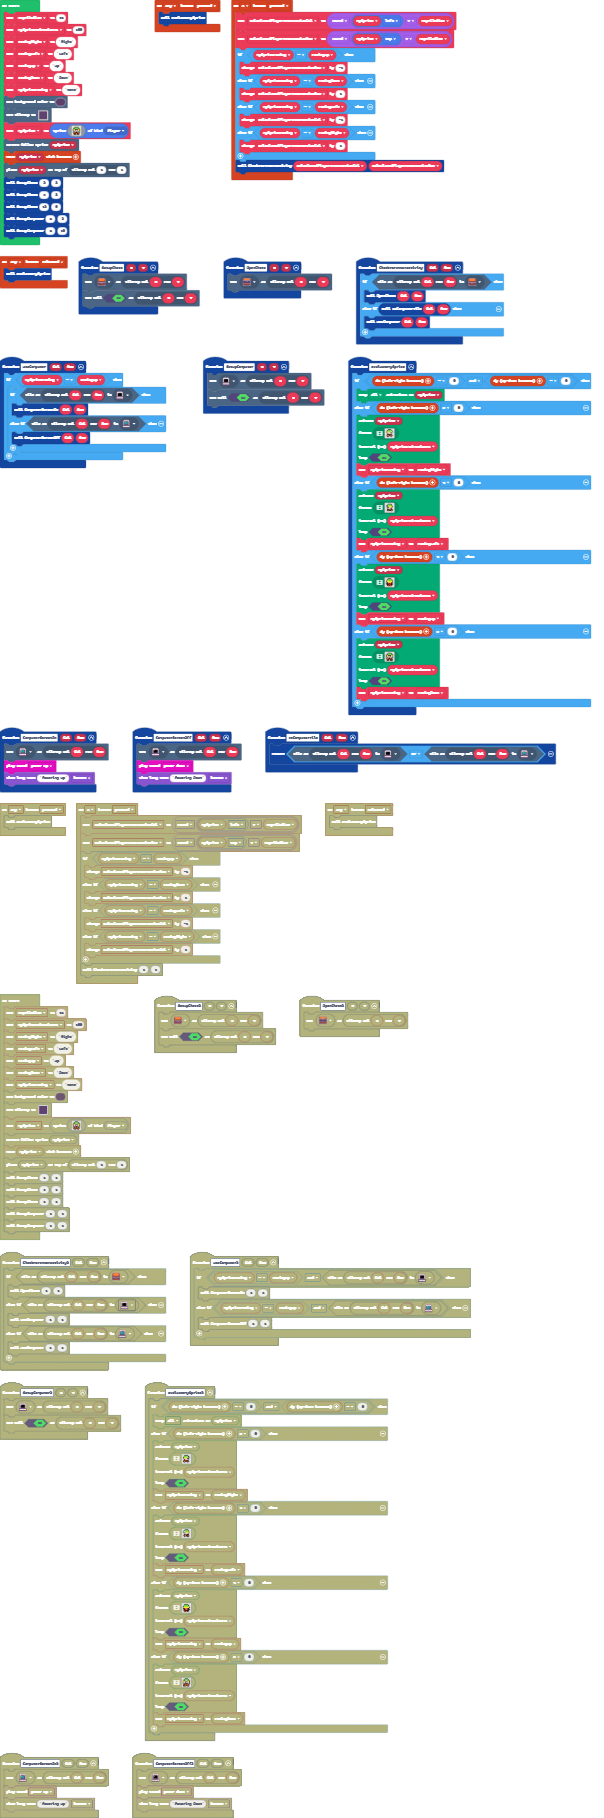
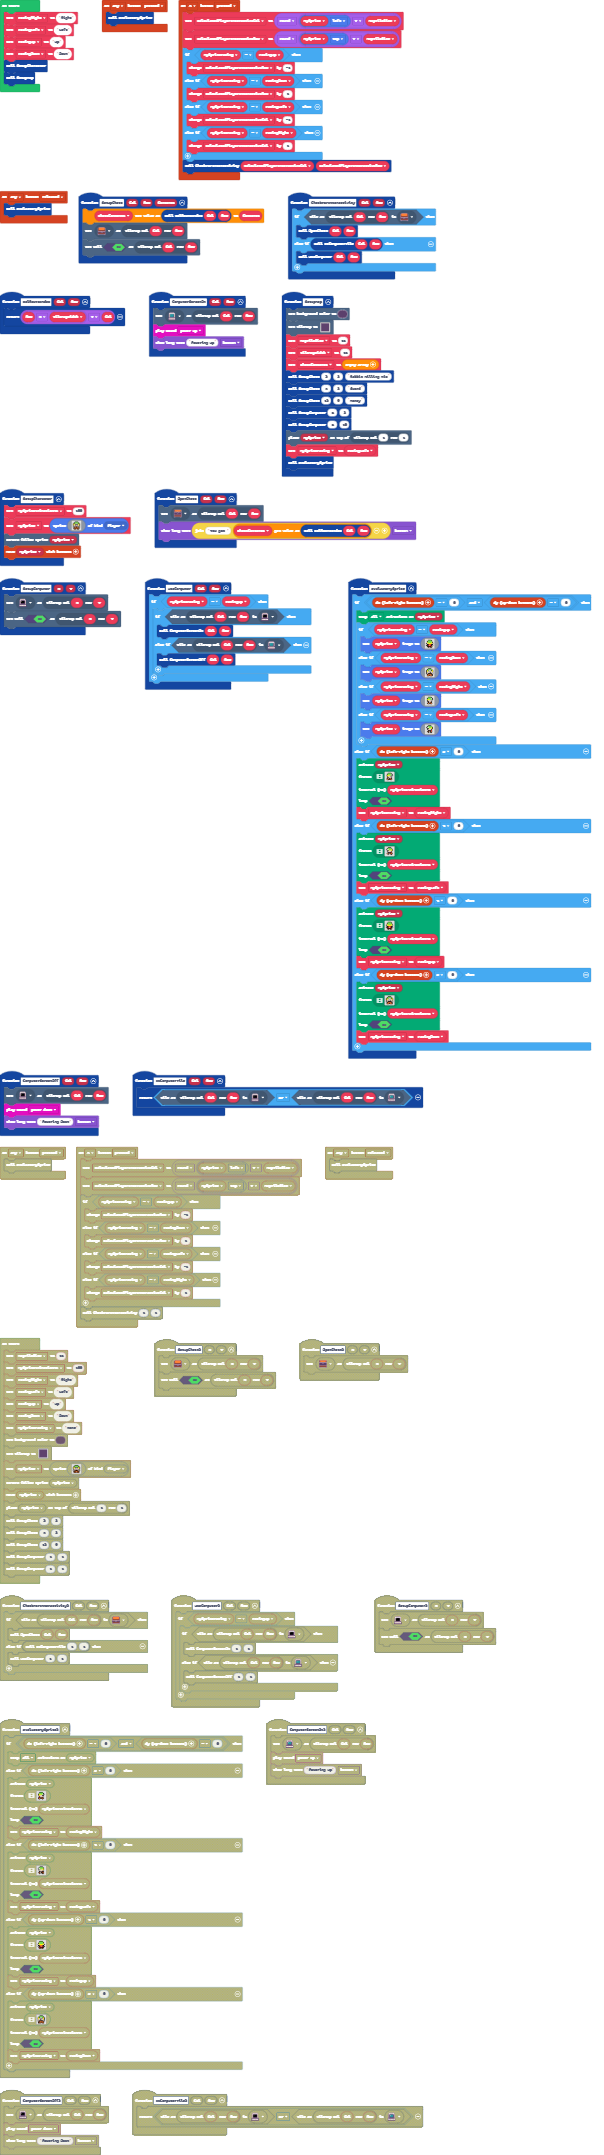
Lots of changes. Added contents to chest. Rearranged setup code. Made it possible to have player start out facing a particular direction.

diff --git a/main.ts b/main.ts
@@ -1,12 +1,14 @@
 namespace SpriteKind {
     export const Chest = SpriteKind.create()
 }
-function SetUpChest (X: number, Y: number) {
-    tiles.setTileAt(tiles.getTileLocation(X, Y), assets.tile`chestClosed`)
-    tiles.setWallAt(tiles.getTileLocation(X, Y), true)
+function SetUpChest (Col: number, Row: number, Contents: string) {
+    chestContents[colRowToIndex(Col, Row)] = Contents
+    tiles.setTileAt(tiles.getTileLocation(Col, Row), assets.tile`chestClosed`)
+    tiles.setWallAt(tiles.getTileLocation(Col, Row), true)
 }
-function OpenChest (X: number, Y: number) {
-    tiles.setTileAt(tiles.getTileLocation(X, Y), assets.tile`chestOpen`)
+function OpenChest (Col: number, Row: number) {
+    tiles.setTileAt(tiles.getTileLocation(Col, Row), assets.tile`chestOpen`)
+    game.showLongText("You got " + chestContents[colRowToIndex(Col, Row)], DialogLayout.Bottom)
 }
 controller.anyButton.onEvent(ControllerButtonEvent.Pressed, function () {
     evaluateMySprite()
@@ -31,6 +33,21 @@ controller.anyButton.onEvent(ControllerButtonEvent.Released, function () {
 function IsComputerTile (Col: number, Row: number) {
     return tiles.tileAtLocationEquals(tiles.getTileLocation(Col, Row), assets.tile`ComputerScreenOn0`) || tiles.tileAtLocationEquals(tiles.getTileLocation(Col, Row), assets.tile`ComputerScreenOn`)
 }
+function SetupMap () {
+    scene.setBackgroundColor(12)
+    tiles.setTilemap(tilemap`level1`)
+    mapTileSize = 16
+    tileMapWidth = 16
+    chestContents = []
+    SetUpChest(2, 3, "Rabbit Killing Kit")
+    SetUpChest(4, 3, "Sword")
+    SetUpChest(12, 9, "Money")
+    SetUpComputer(6, 3)
+    SetUpComputer(6, 10)
+    tiles.placeOnTile(mySprite, tiles.getTileLocation(1, 1))
+    mySpriteFacing = FacingLeft
+    evaluateMySprite()
+}
 function UseComputer (Col: number, Row: number) {
     if (mySpriteFacing == FacingUp) {
         if (tiles.tileAtLocationEquals(tiles.getTileLocation(Col, Row), assets.tile`ComputerScreenOn0`)) {
@@ -52,13 +69,31 @@ function CheckForInteractivity (Col: number, Row: number) {
         UseComputer(Col, Row)
     }
 }
+function SetupCharacter () {
+    mySpriteAnimationMs = 100
+    mySprite = sprites.create(assets.image`Trainer Blondie Facing Down`, SpriteKind.Player)
+    scene.cameraFollowSprite(mySprite)
+    controller.moveSprite(mySprite)
+}
 function SetUpComputer (X: number, Y: number) {
     tiles.setTileAt(tiles.getTileLocation(X, Y), assets.tile`ComputerScreenOn0`)
     tiles.setWallAt(tiles.getTileLocation(X, Y), true)
 }
+function colRowToIndex (Col: number, Row: number) {
+    return Row * tileMapWidth + Col
+}
 function evaluateMySprite () {
     if (controller.dx() == 0 && controller.dy() == 0) {
         animation.stopAnimation(animation.AnimationTypes.All, mySprite)
+        if (mySpriteFacing == FacingUp) {
+            mySprite.setImage(assets.image`Trainer Blondie Facing Up`)
+        } else if (mySpriteFacing == FacingDown) {
+            mySprite.setImage(assets.image`Trainer Blondie Facing Down`)
+        } else if (mySpriteFacing == FacingRight) {
+            mySprite.setImage(assets.image`Trainer Blondie Facing Right`)
+        } else if (mySpriteFacing == FacingLeft) {
+            mySprite.setImage(assets.image`Trainer Blondie Facing Left`)
+        }
     } else if (controller.dx() > 0) {
         animation.runImageAnimation(
         mySprite,
@@ -370,31 +405,21 @@ function ComputerScreenOn (Col: number, Row: number) {
     music.powerUp.play()
     game.showLongText("Powering Up", DialogLayout.Bottom)
 }
-let calculatedPlayerInteractiveRow = 0
-let calculatedPlayerInteractiveCol = 0
-let mySprite: Sprite = null
+let mySpriteAnimationMs = 0
+let tileMapWidth = 0
 let mySpriteFacing = ""
+let calculatedPlayerInteractiveRow = 0
+let mapTileSize = 0
+let mySprite: Sprite = null
+let calculatedPlayerInteractiveCol = 0
+let chestContents: string[] = []
 let FacingDown = ""
 let FacingUp = ""
 let FacingLeft = ""
 let FacingRight = ""
-let mySpriteAnimationMs = 0
-let mapTileSize = 0
-mapTileSize = 16
-mySpriteAnimationMs = 100
 FacingRight = "Right"
 FacingLeft = "Left"
 FacingUp = "Up"
 FacingDown = "Down"
-mySpriteFacing = "None"
-scene.setBackgroundColor(12)
-tiles.setTilemap(tilemap`level1`)
-mySprite = sprites.create(assets.image`Trainer Blondie`, SpriteKind.Player)
-scene.cameraFollowSprite(mySprite)
-controller.moveSprite(mySprite)
-tiles.placeOnTile(mySprite, tiles.getTileLocation(1, 1))
-SetUpChest(2, 3)
-SetUpChest(4, 3)
-SetUpChest(12, 9)
-SetUpComputer(6, 3)
-SetUpComputer(6, 10)
+SetupCharacter()
+SetupMap()

diff --git a/images.g.ts b/images.g.ts
@@ -42,7 +42,7 @@ c b b b b b b b b b b b b b c .
 c c c c c c c c c c c c c c c . 
 `;
             case "image3":
-            case "Trainer Blondie":return img`
+            case "Trainer Blondie Facing Down":return img`
 . . . . . f f f f f f . . . . . 
 . . . . f 7 7 7 7 7 7 f . . . . 
 . . . f 7 7 7 7 7 7 7 7 f . . . 
@@ -59,6 +59,63 @@ c c c c c c c c c c c c c c c .
 . . f 4 f f f 4 4 f f f 4 f . . 
 . . f 4 4 4 4 f f 4 4 4 4 f . . 
 . . . f f f f . . f f f f . . . 
+`;
+            case "image4":
+            case "Trainer Blondie Facing Up":return img`
+. . . . . f f f f f f . . . . . 
+. . . . f 7 7 7 7 7 7 f . . . . 
+. . . f 7 7 7 7 7 7 7 7 f . . . 
+. . . f 7 7 7 7 7 7 7 7 f . . . 
+. . f 5 7 7 7 7 7 7 7 7 5 f . . 
+. . f 5 5 7 7 7 7 7 7 5 5 f . . 
+. f d 5 5 5 5 5 5 5 5 5 5 d f . 
+. f d d 5 5 5 5 5 5 5 5 d d f . 
+. . f f d d 5 5 5 5 d d f f . . 
+. . f f f f 2 2 2 2 f f f f . . 
+. f d f f 2 2 f f 2 2 f f d f . 
+. f d f f 2 2 1 1 2 2 f f d f . 
+. . f f f f 2 2 2 2 f f f f . . 
+. . . f 4 f f f f f f 4 f . . . 
+. . . f 4 4 4 f f 4 4 4 f . . . 
+. . . . f f f . . f f f . . . . 
+`;
+            case "image5":
+            case "Trainer Blondie Facing Right":return img`
+. . . . . f f f f f f . . . . . 
+. . . . f 7 7 7 7 7 7 f . . . . 
+. . . f 7 7 7 7 7 7 7 7 f . . . 
+. . . f 7 7 7 7 7 7 7 1 f f . . 
+. . f 5 5 7 7 7 7 7 1 1 1 1 f . 
+. . f 5 5 5 5 5 5 7 7 7 f f . . 
+. . f 5 5 d d 5 d d f d f . . . 
+. . . f 5 d d d d d f d f . . . 
+. . . . f d d d d d d d f . . . 
+. . . f 2 f d d d d d f . . . . 
+. . . f 2 f f f f f f f . . . . 
+. . . . f f d d f 4 4 f . . . . 
+. . . f 4 4 d d f f f 4 f . . . 
+. . . f e 4 4 f f e 4 4 f . . . 
+. . . . f f f . . f f f . . . . 
+. . . . . . . . . . . . . . . . 
+`;
+            case "image6":
+            case "Trainer Blondie Facing Left":return img`
+. . . . . f f f f f f . . . . . 
+. . . . f 7 7 7 7 7 7 f . . . . 
+. . . f 7 7 7 7 7 7 7 7 f . . . 
+. . f f 1 7 7 7 7 7 7 7 f . . . 
+. f 1 1 1 1 7 7 7 7 7 5 5 f . . 
+. . f f 7 7 7 5 5 5 5 5 5 f . . 
+. . . f d f d 5 d d d 5 5 f . . 
+. . . f d f d d d d d 5 f . . . 
+. . . f d d d d d d d f . . . . 
+. . . . f d d d d d f 2 f . . . 
+. . . . f f f f f f f 2 f . . . 
+. . . . f 4 f d d f 4 f . . . . 
+. . . f 4 f f d d f f 4 f . . . 
+. . . f 4 4 e f f 4 4 e f . . . 
+. . . . f f f . . f f f . . . . 
+. . . . . . . . . . . . . . . . 
 `;
         }
         return null;

diff --git a/tilemap.g.ts b/tilemap.g.ts
@@ -279,6 +279,25 @@ namespace myTiles {
 . . . . . . . . . . . . . . . . 
 . . . . . . . . . . . . . . . . 
 `, [myTiles.transparency16,sprites.dungeon.darkGroundCenter,sprites.dungeon.darkGroundNorthWest0,sprites.dungeon.darkGroundNorthEast0,sprites.dungeon.darkGroundSouthEast0,sprites.dungeon.darkGroundSouthWest0,sprites.dungeon.darkGroundWest,sprites.dungeon.darkGroundNorth,sprites.dungeon.darkGroundEast,sprites.dungeon.darkGroundSouth], TileScale.Sixteen);
+            case "level15":
+            case "level15":return tiles.createTilemap(hex`1000100000000000000000000000000000000000000000000000000000000000000000000000000000000000000000000000000000000000000000000000000000000000000000000000000000000000000000000000000000000000000000000000000000000000000000000000000000000000000000000000000000000000000000000000000000000000000000000000000000000000000000000000000000000000000000000000000000000000000000000000000000000000000000000000000000000000000000000000000000000000000000000000000000000000000000000000000000000000000000000000000000000000000000000000000000000000`, img`
+. . . . . . . . . . . . . . . . 
+. . . . . . . . . . . . . . . . 
+. . . . . . . . . . . . . . . . 
+. . . . . . . . . . . . . . . . 
+. . . . . . . . . . . . . . . . 
+. . . . . . . . . . . . . . . . 
+. . . . . . . . . . . . . . . . 
+. . . . . . . . . . . . . . . . 
+. . . . . . . . . . . . . . . . 
+. . . . . . . . . . . . . . . . 
+. . . . . . . . . . . . . . . . 
+. . . . . . . . . . . . . . . . 
+. . . . . . . . . . . . . . . . 
+. . . . . . . . . . . . . . . . 
+. . . . . . . . . . . . . . . . 
+. . . . . . . . . . . . . . . . 
+`, [myTiles.transparency16], TileScale.Sixteen);
         }
         return null;
     })
